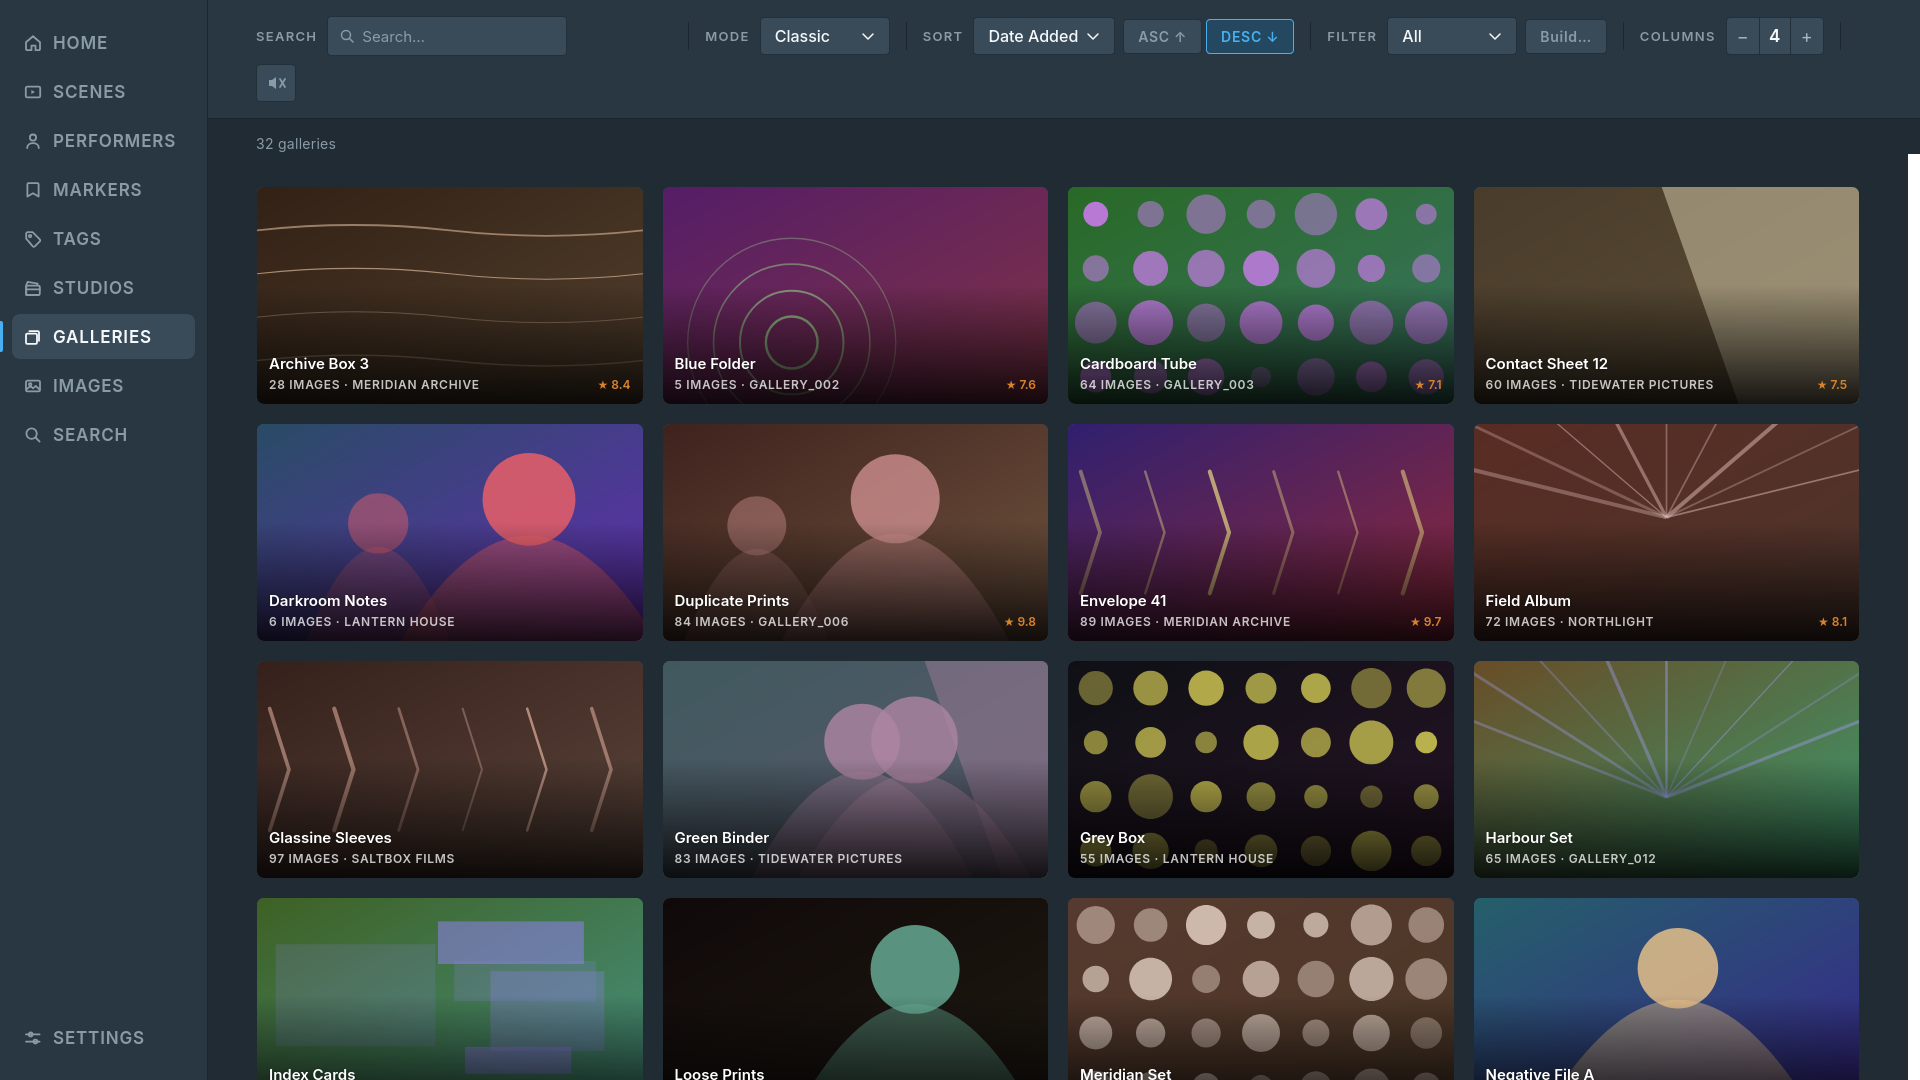
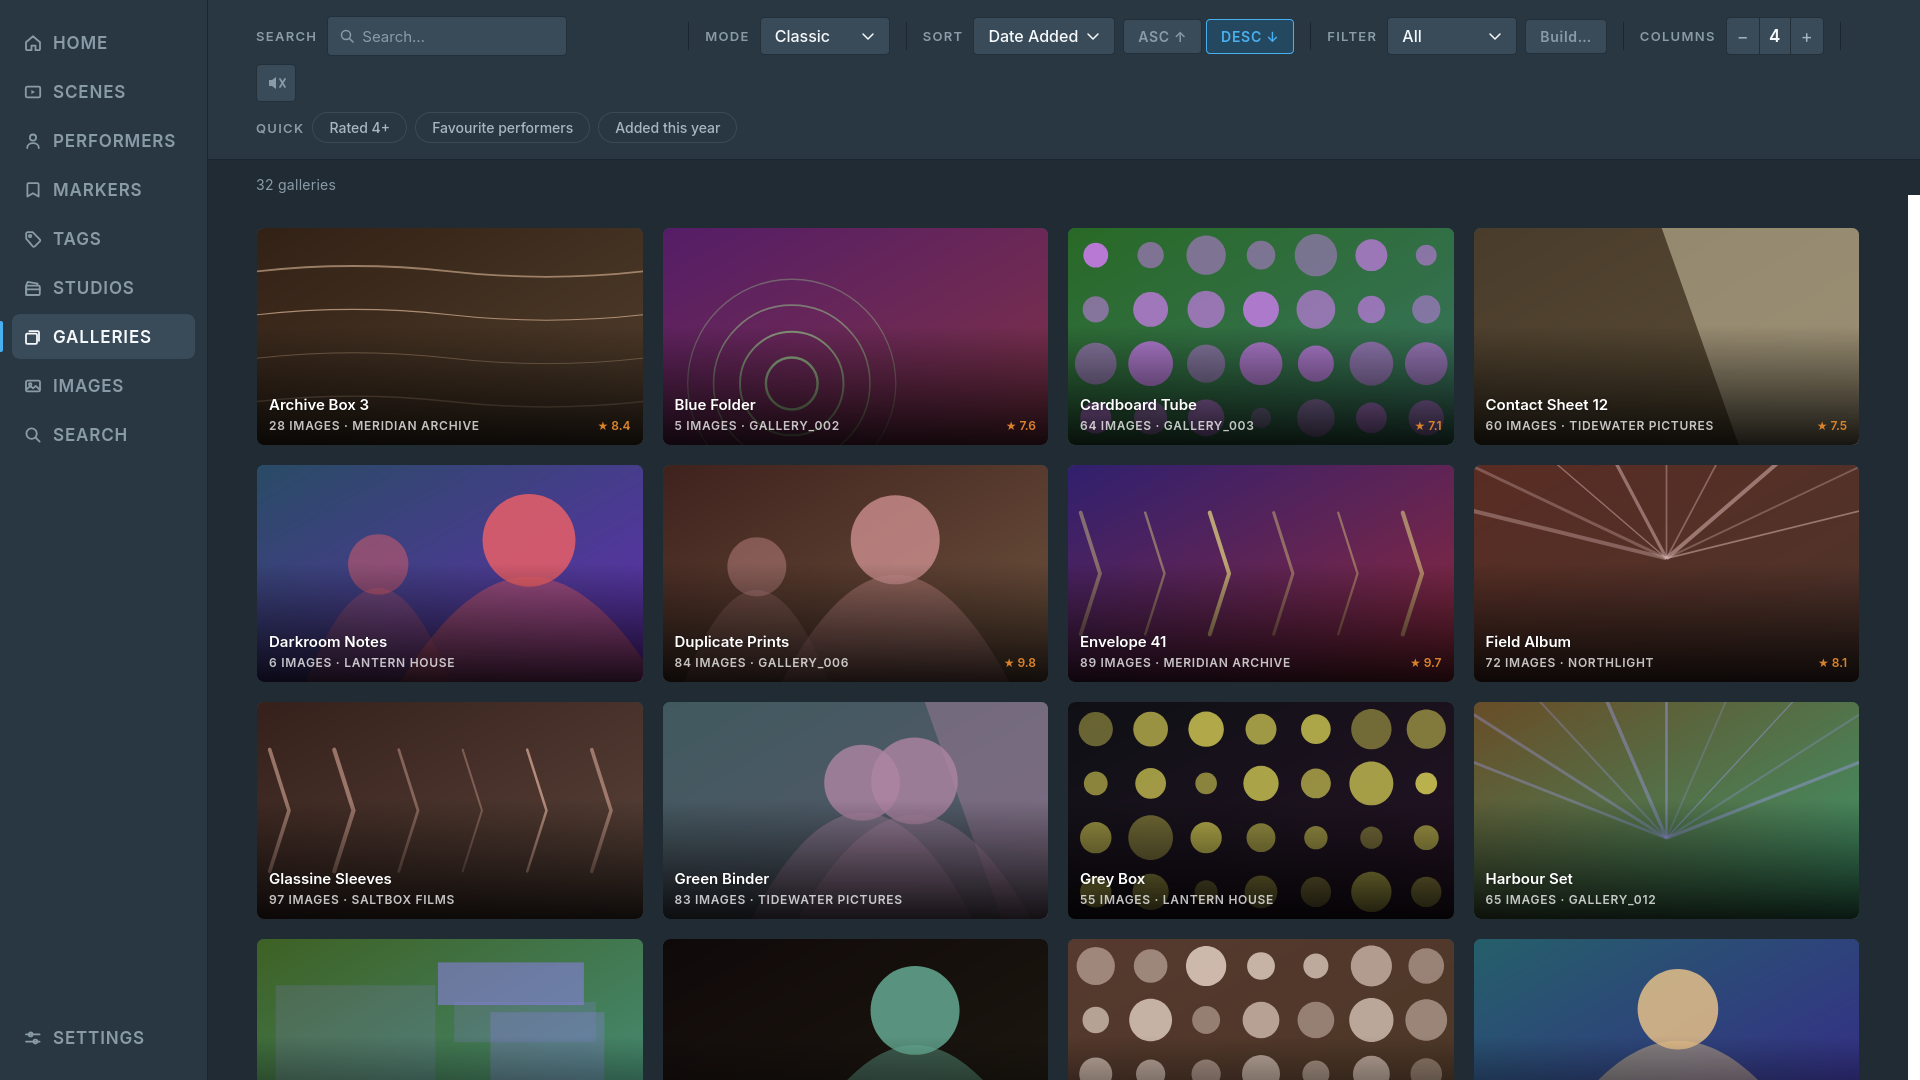
Refresh features and screenshots for 0.40.0

diff --git a/index.html b/index.html
@@ -70,8 +70,8 @@
         </article>
         <article class="card">
           <h3>Browse everything</h3>
-          <p>Seven listings, four view modes, per-tab sort and filters, and long-press actions
-             everywhere.</p>
+          <p>Seven listings, four view modes, per-tab sort and filters. Tags and Studios open as
+             lists, and every listing comes back to the row you left.</p>
         </article>
         <article class="card">
           <h3>Search everywhere</h3>
@@ -83,9 +83,14 @@
           <p>Build filters on the TV or load saved ones; they round-trip with Stash both ways.</p>
         </article>
         <article class="card">
+          <h3>Quick filters</h3>
+          <p>One-press chips like Unwatched, Rated 4+ and Has markers, alone or combined with
+             the filter.</p>
+        </article>
+        <article class="card">
           <h3>Scene detail</h3>
-          <p>Resume, jump to markers, rate, organise, and hand off to the scene's gallery in one
-             press. Markers can be edited or deleted from their long-press menu.</p>
+          <p>Resume, jump to markers, rate, organise, and open the gallery or more from the same
+             studio and performers. Markers can be edited or deleted from their menu.</p>
         </article>
         <article class="card">
           <h3>Performer pages</h3>
@@ -100,7 +105,12 @@
         <article class="card">
           <h3>Player that remembers</h3>
           <p>HLS-first, resumes where you stopped, queues the listing and writes progress back to
-             Stash.</p>
+             Stash. Seek step is fixed or Adaptive.</p>
+        </article>
+        <article class="card">
+          <h3>Queue and Up next</h3>
+          <p>Open the session from the player, jump to a scene or remove it. Up next offers the
+             following scene in the last 30 seconds.</p>
         </article>
         <article class="card">
           <h3>TV engine fallback</h3>
